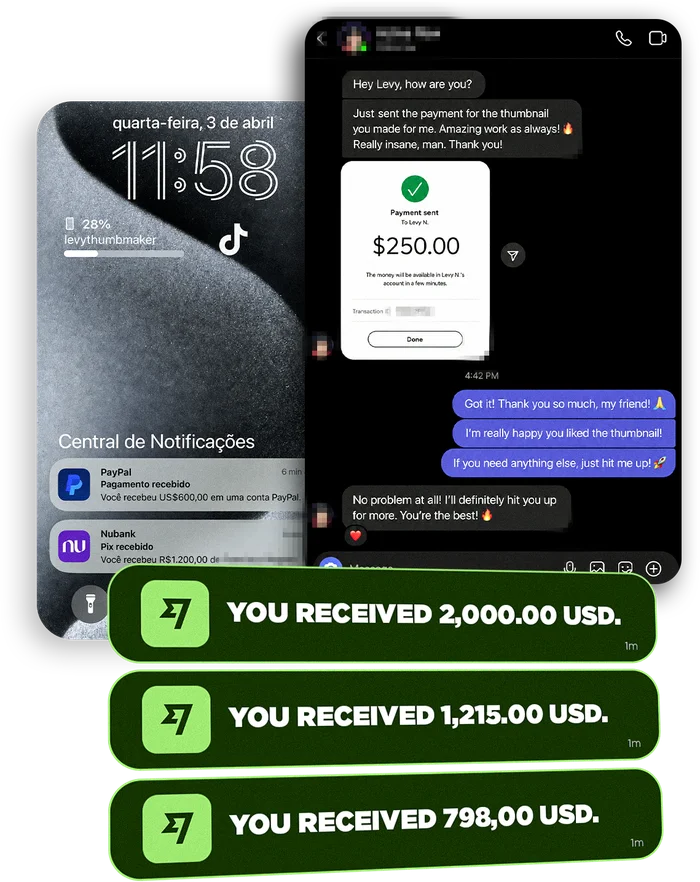
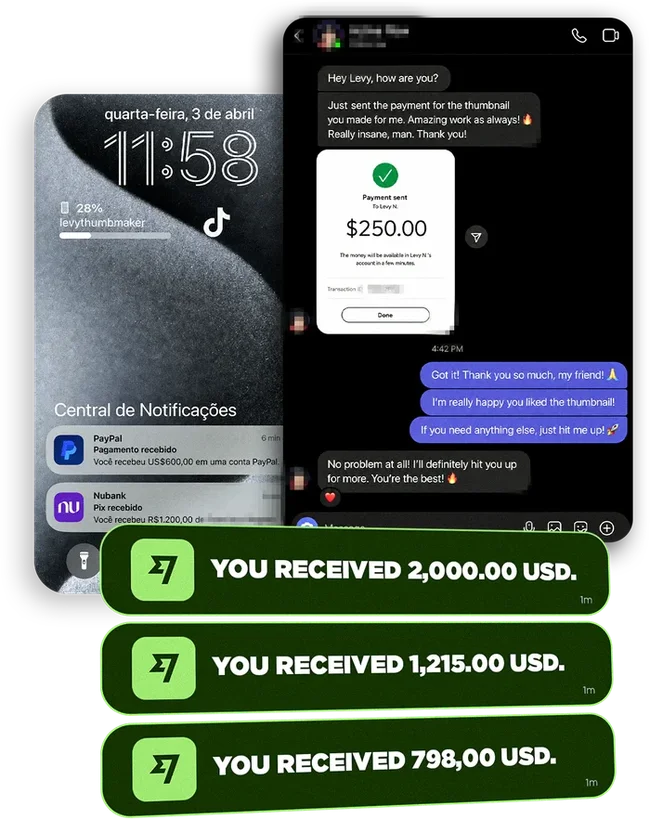
Otimiza imagens: converte para WebP e reduz dimensoes (economia de ~1.3MB); adiciona preconnect para fonts.gstatic.com

diff --git a/index.html b/index.html
@@ -5,6 +5,7 @@
 <meta name="viewport" content="width=device-width, initial-scale=1.0">
 <title>Crie Thumbnails Gringas Profissionais e Venda em Dólar</title>
 <link rel="preconnect" href="https://fonts.googleapis.com">
+<link rel="preconnect" href="https://fonts.gstatic.com" crossorigin>
 <link href="https://fonts.googleapis.com/css2?family=Manrope:wght@300;400;500;600;700;800&display=swap" rel="stylesheet">
 <style>
   :root{
@@ -532,7 +533,7 @@
           <span>✦ Ganhe em dólar hoje</span>
         </div>
       </div>
-      <img class="hero-bill" src="images/dollaer.png" alt="Nota de 100 mil dólares representando o potencial de ganho em dólar">
+      <img class="hero-bill" src="images/dollaer.webp" alt="Nota de 100 mil dólares representando o potencial de ganho em dólar">
     </div>
   </div>
 </section>
@@ -547,15 +548,15 @@
   <div class="examples-carousel">
     <button class="ex-arrow ex-prev" id="exPrev" aria-label="Exemplo anterior">‹</button>
     <div class="ex-track" id="exTrack">
-      <div class="ex-card"><img src="images/thumb-detetive.jpg" alt="Thumbnail estilo investigação com mural de pistas" loading="lazy"></div>
-      <div class="ex-card"><img src="images/thumb-arma.jpg" alt="Thumbnail estilo jogo de ação em primeira pessoa" loading="lazy"></div>
-      <div class="ex-card"><img src="images/thumb-brinquedos.jpg" alt="Thumbnail de loja de brinquedos" loading="lazy"></div>
-      <div class="ex-card"><img src="images/thumb-prospeccao.jpg" alt="Thumbnail sobre prospecção" loading="lazy"></div>
-      <div class="ex-card"><img src="images/thumb-dinheiro.jpg" alt="Thumbnail mostrando resultado financeiro no celular" loading="lazy"></div>
-      <div class="ex-card"><img src="images/thumb-cobra.jpg" alt="Thumbnail de aventura na selva" loading="lazy"></div>
-      <div class="ex-card"><img src="images/thumb-zumbi.jpg" alt="Thumbnail estilo horror com reação de susto" loading="lazy"></div>
-      <div class="ex-card"><img src="images/thumb-gta.jpg" alt="Thumbnail estilo GTA VI com reação de wanted" loading="lazy"></div>
-      <div class="ex-card"><img src="images/thumb-tlou.jpg" alt="Thumbnail estilo sobrevivência pós-apocalíptica" loading="lazy"></div>
+      <div class="ex-card"><img src="images/thumb-detetive.webp" alt="Thumbnail estilo investigação com mural de pistas" loading="lazy"></div>
+      <div class="ex-card"><img src="images/thumb-arma.webp" alt="Thumbnail estilo jogo de ação em primeira pessoa" loading="lazy"></div>
+      <div class="ex-card"><img src="images/thumb-brinquedos.webp" alt="Thumbnail de loja de brinquedos" loading="lazy"></div>
+      <div class="ex-card"><img src="images/thumb-prospeccao.webp" alt="Thumbnail sobre prospecção" loading="lazy"></div>
+      <div class="ex-card"><img src="images/thumb-dinheiro.webp" alt="Thumbnail mostrando resultado financeiro no celular" loading="lazy"></div>
+      <div class="ex-card"><img src="images/thumb-cobra.webp" alt="Thumbnail de aventura na selva" loading="lazy"></div>
+      <div class="ex-card"><img src="images/thumb-zumbi.webp" alt="Thumbnail estilo horror com reação de susto" loading="lazy"></div>
+      <div class="ex-card"><img src="images/thumb-gta.webp" alt="Thumbnail estilo GTA VI com reação de wanted" loading="lazy"></div>
+      <div class="ex-card"><img src="images/thumb-tlou.webp" alt="Thumbnail estilo sobrevivência pós-apocalíptica" loading="lazy"></div>
     </div>
     <button class="ex-arrow ex-next" id="exNext" aria-label="Próximo exemplo">›</button>
   </div>
@@ -714,28 +715,28 @@
 
     <div class="modules-showcase reveal">
       <div class="modules-track">
-        <img src="images/modulo-01.jpg" alt="Módulo 01 — Fundamentos de uma thumbnail que gera cliques" loading="lazy">
-        <img src="images/modulo-02-boas-vindas.jpg" alt="Boas-vindas ao método" loading="lazy">
-        <img src="images/modulo-03-photoshop.jpg" alt="Módulo 03 — Conhecendo o Photoshop" loading="lazy">
-        <img src="images/modulo-04-tratamento-pele.jpg" alt="Módulo 04 — Tratamento de pele profissional" loading="lazy">
-        <img src="images/modulo-05-pratica.jpg" alt="Módulo 05 — Fazendo as thumbnails na prática" loading="lazy">
-        <img src="images/modulo-ambientacao-iluminacao.jpg" alt="Módulo — Iluminação e ambientação" loading="lazy">
-        <img src="images/modulo-thumb-ai.jpg" alt="Módulo — Thumb.AI" loading="lazy">
-        <img src="images/modulo-portfolio-01.jpg" alt="Módulo — Portfólio que atrai canais gringos" loading="lazy">
-        <img src="images/modulo-prospeccao-02.jpg" alt="Módulo — Como encontrar e analisar canais gringos" loading="lazy">
-        <img src="images/modulo-prospeccao-03.jpg" alt="Módulo — Prospecção, precificação e clientes recorrentes em dólar" loading="lazy">
-        <img src="images/modulo-prospeccao-04.jpg" alt="Módulo — Plano de ação Thumbdollar" loading="lazy">
-        <img src="images/modulo-01.jpg" alt="" aria-hidden="true" loading="lazy">
-        <img src="images/modulo-02-boas-vindas.jpg" alt="" aria-hidden="true" loading="lazy">
-        <img src="images/modulo-03-photoshop.jpg" alt="" aria-hidden="true" loading="lazy">
-        <img src="images/modulo-04-tratamento-pele.jpg" alt="" aria-hidden="true" loading="lazy">
-        <img src="images/modulo-05-pratica.jpg" alt="" aria-hidden="true" loading="lazy">
-        <img src="images/modulo-ambientacao-iluminacao.jpg" alt="" aria-hidden="true" loading="lazy">
-        <img src="images/modulo-thumb-ai.jpg" alt="" aria-hidden="true" loading="lazy">
-        <img src="images/modulo-portfolio-01.jpg" alt="" aria-hidden="true" loading="lazy">
-        <img src="images/modulo-prospeccao-02.jpg" alt="" aria-hidden="true" loading="lazy">
-        <img src="images/modulo-prospeccao-03.jpg" alt="" aria-hidden="true" loading="lazy">
-        <img src="images/modulo-prospeccao-04.jpg" alt="" aria-hidden="true" loading="lazy">
+        <img src="images/modulo-01.webp" alt="Módulo 01 — Fundamentos de uma thumbnail que gera cliques" loading="lazy">
+        <img src="images/modulo-02-boas-vindas.webp" alt="Boas-vindas ao método" loading="lazy">
+        <img src="images/modulo-03-photoshop.webp" alt="Módulo 03 — Conhecendo o Photoshop" loading="lazy">
+        <img src="images/modulo-04-tratamento-pele.webp" alt="Módulo 04 — Tratamento de pele profissional" loading="lazy">
+        <img src="images/modulo-05-pratica.webp" alt="Módulo 05 — Fazendo as thumbnails na prática" loading="lazy">
+        <img src="images/modulo-ambientacao-iluminacao.webp" alt="Módulo — Iluminação e ambientação" loading="lazy">
+        <img src="images/modulo-thumb-ai.webp" alt="Módulo — Thumb.AI" loading="lazy">
+        <img src="images/modulo-portfolio-01.webp" alt="Módulo — Portfólio que atrai canais gringos" loading="lazy">
+        <img src="images/modulo-prospeccao-02.webp" alt="Módulo — Como encontrar e analisar canais gringos" loading="lazy">
+        <img src="images/modulo-prospeccao-03.webp" alt="Módulo — Prospecção, precificação e clientes recorrentes em dólar" loading="lazy">
+        <img src="images/modulo-prospeccao-04.webp" alt="Módulo — Plano de ação Thumbdollar" loading="lazy">
+        <img src="images/modulo-01.webp" alt="" aria-hidden="true" loading="lazy">
+        <img src="images/modulo-02-boas-vindas.webp" alt="" aria-hidden="true" loading="lazy">
+        <img src="images/modulo-03-photoshop.webp" alt="" aria-hidden="true" loading="lazy">
+        <img src="images/modulo-04-tratamento-pele.webp" alt="" aria-hidden="true" loading="lazy">
+        <img src="images/modulo-05-pratica.webp" alt="" aria-hidden="true" loading="lazy">
+        <img src="images/modulo-ambientacao-iluminacao.webp" alt="" aria-hidden="true" loading="lazy">
+        <img src="images/modulo-thumb-ai.webp" alt="" aria-hidden="true" loading="lazy">
+        <img src="images/modulo-portfolio-01.webp" alt="" aria-hidden="true" loading="lazy">
+        <img src="images/modulo-prospeccao-02.webp" alt="" aria-hidden="true" loading="lazy">
+        <img src="images/modulo-prospeccao-03.webp" alt="" aria-hidden="true" loading="lazy">
+        <img src="images/modulo-prospeccao-04.webp" alt="" aria-hidden="true" loading="lazy">
       </div>
     </div>
   </div>
